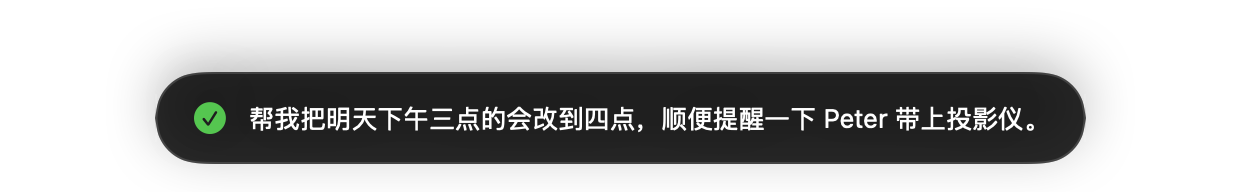
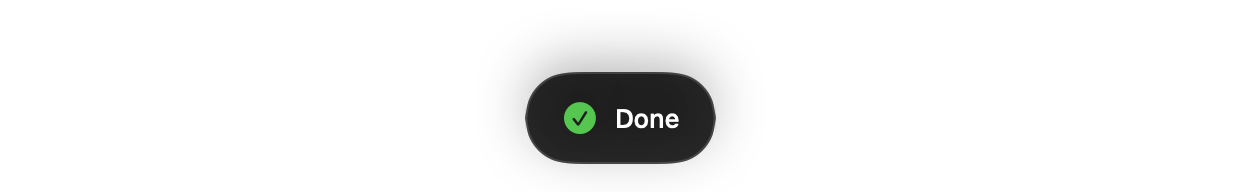
Recording bar: a short confirmation when done, not the whole text again
The words are in the field (typed live or pasted) or on the clipboard already; the bar now only says
which: ✓ Done, or Copied, press ⌘V.

diff --git a/Sources/Cadabra/HUD.swift b/Sources/Cadabra/HUD.swift
@@ -162,20 +162,15 @@ struct HUDView: View {
                 ProgressView().controlSize(.small).tint(theme.barText)
                 Text(t("识别中…", "Transcribing…")).font(.system(size: 13, weight: .medium))
             }
-        case .done(let text, let pasted):
-            HStack(spacing: 10) {
+        case .done(_, let pasted):
+            // Just the outcome: the words themselves are in the field (or on the clipboard) already.
+            HStack(spacing: 8) {
                 Image(systemName: pasted ? "checkmark.circle.fill" : "doc.on.clipboard.fill")
                     .foregroundStyle(pasted ? .green : .yellow)
                     .font(.system(size: 16))
-                Text(text)
-                    .font(.system(size: 13))
-                    .lineLimit(1)
-                    .truncationMode(.middle)
-                    .frame(maxWidth: 420, alignment: .leading)
-                    .fixedSize(horizontal: true, vertical: false)
-                if !pasted {
-                    Text(t("已复制，⌘V 粘贴", "Copied. Press ⌘V to paste")).font(.system(size: 12)).foregroundStyle(theme.barText.opacity(0.6)).fixedSize()
-                }
+                Text(pasted ? t("已输入", "Done") : t("已复制，⌘V 粘贴", "Copied. Press ⌘V to paste"))
+                    .font(.system(size: 13, weight: .medium))
+                    .fixedSize()
             }
         case .message(let text, let symbol):
             HStack(spacing: 10) {
